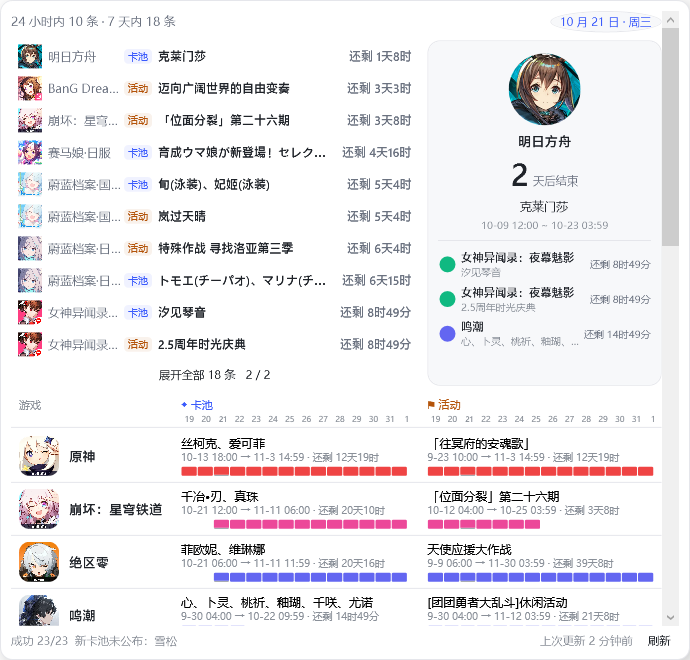
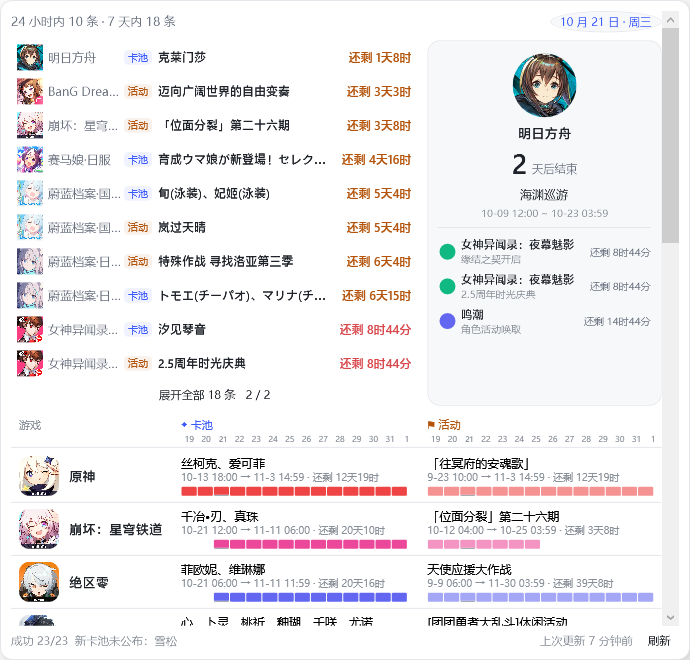
style: v0.1.16 视觉打磨与交互修复
- newPanel 焦点卡显示池/活动名，图标/间距收紧；活动条混浅色；倒计时按紧迫度着色
- 设置页自定义 CheckBox、ComboBox/TextBox 统一、颜色列；取色器以设置窗口为 owner
- 修复 newPanel 隐藏时循环定时器仍运行、设置窗口小屏溢出
- 更新设置页/newPanel 100/150 截图；版本 0.1.16

验证：dotnet build 0 警告 0 错误；npm test 34/34；npm run check 通过

diff --git a/src/GachaCalendar/Views/ScheduleView.xaml b/src/GachaCalendar/Views/ScheduleView.xaml
@@ -87,7 +87,7 @@
 												<ColumnDefinition Width="*" />
 												<ColumnDefinition Width="Auto" />
 											</Grid.ColumnDefinitions>
-											<Grid Width="24" Height="24" HorizontalAlignment="Center" VerticalAlignment="Center">
+											<Grid Width="26" Height="26" HorizontalAlignment="Center" VerticalAlignment="Center">
 												<Border CornerRadius="5" Background="{Binding GameColor}">
 													<Border.Style>
 														<Style TargetType="Border">
@@ -160,8 +160,21 @@
 													   VerticalAlignment="Center" Margin="3,0" TextTrimming="CharacterEllipsis"
 													   ToolTip="{Binding Tip}" />
 											<TextBlock Grid.Column="4" Text="{Binding WhenText}" FontSize="12" FontWeight="SemiBold"
-													   VerticalAlignment="Center" Margin="6,0,0,0"
-													   Foreground="{DynamicResource FgDim}" />
+													   VerticalAlignment="Center" Margin="6,0,0,0">
+												<TextBlock.Style>
+													<Style TargetType="TextBlock">
+														<Setter Property="Foreground" Value="{DynamicResource FgDim}" />
+														<Style.Triggers>
+															<DataTrigger Binding="{Binding Urgency}" Value="1">
+																<Setter Property="Foreground" Value="{DynamicResource Danger}" />
+															</DataTrigger>
+															<DataTrigger Binding="{Binding Urgency}" Value="2">
+																<Setter Property="Foreground" Value="{DynamicResource Warn}" />
+															</DataTrigger>
+														</Style.Triggers>
+													</Style>
+												</TextBlock.Style>
+											</TextBlock>
 										</Grid>
 									</Border>
 								</DataTemplate>
@@ -186,8 +199,8 @@
 					<Border Grid.Column="1" Background="{DynamicResource ChipBg}" BorderBrush="{DynamicResource PanelBorder}"
 							BorderThickness="1" CornerRadius="12" Padding="10" VerticalAlignment="Stretch">
 						<StackPanel>
-							<Grid Width="72" Height="72" HorizontalAlignment="Center" Margin="0,2,0,0">
-								<Border CornerRadius="36" Background="{Binding Focus.GameColor}">
+							<Grid Width="64" Height="64" HorizontalAlignment="Center" Margin="0,2,0,0">
+								<Border CornerRadius="32" Background="{Binding Focus.GameColor}">
 									<Border.Style>
 										<Style TargetType="Border">
 											<Setter Property="Visibility" Value="Visible" />
@@ -198,7 +211,7 @@
 											</Style.Triggers>
 										</Style>
 									</Border.Style>
-									<TextBlock Text="{Binding Focus.IconGlyph}" FontSize="24" Foreground="White"
+									<TextBlock Text="{Binding Focus.IconGlyph}" FontSize="22" Foreground="White"
 											   HorizontalAlignment="Center" VerticalAlignment="Center" />
 								</Border>
 								<Image Source="{Binding Focus.Icon}" Stretch="UniformToFill">
@@ -213,14 +226,14 @@
 										</Style>
 									</Image.Style>
 									<Image.Clip>
-										<EllipseGeometry Center="36,36" RadiusX="36" RadiusY="36" />
+										<EllipseGeometry Center="32,32" RadiusX="32" RadiusY="32" />
 									</Image.Clip>
 								</Image>
 							</Grid>
 							<TextBlock Text="{Binding FocusGameName}" FontSize="13" FontWeight="SemiBold" HorizontalAlignment="Center"
 									   Margin="0,7,0,0" TextTrimming="CharacterEllipsis" />
 							<StackPanel Orientation="Horizontal" HorizontalAlignment="Center" Margin="0,2,0,0">
-								<TextBlock Text="{Binding Focus.FocusNumber}" FontSize="32" FontWeight="SemiBold" />
+								<TextBlock Text="{Binding Focus.FocusNumber}" FontSize="28" FontWeight="SemiBold" />
 								<TextBlock Text="{Binding Focus.FocusUnit}" FontSize="11" Foreground="{DynamicResource FgDim}"
 										   VerticalAlignment="Bottom" Margin="4,0,0,5" />
 							</StackPanel>
@@ -243,7 +256,7 @@
 											</Grid>
 											<StackPanel Grid.Column="1" Margin="5,0,4,0">
 												<TextBlock Text="{Binding GameName}" FontSize="11" FontWeight="SemiBold" TextTrimming="CharacterEllipsis" />
-												<TextBlock Text="{Binding Show}" FontSize="10" Foreground="{DynamicResource FgFaint}" TextTrimming="CharacterEllipsis" />
+												<TextBlock Text="{Binding Title}" FontSize="10" Foreground="{DynamicResource FgFaint}" TextTrimming="CharacterEllipsis" />
 											</StackPanel>
 											<TextBlock Grid.Column="2" Text="{Binding WhenText}" FontSize="10" Foreground="{DynamicResource FgDim}"
 													   VerticalAlignment="Center" />

diff --git a/src/GachaCalendar/Views/SettingsWindow.xaml b/src/GachaCalendar/Views/SettingsWindow.xaml
@@ -54,6 +54,57 @@
 				</Setter.Value>
 			</Setter>
 		</Style>
+
+		<!-- 设置页控件统一到 DSH 的浅色卡片观感 -->
+		<Style TargetType="ComboBox">
+			<Setter Property="Height" Value="26" />
+			<Setter Property="Padding" Value="6,2" />
+			<Setter Property="FontSize" Value="12" />
+			<Setter Property="Background" Value="{DynamicResource PanelBg}" />
+			<Setter Property="Foreground" Value="{DynamicResource Fg}" />
+			<Setter Property="BorderBrush" Value="{DynamicResource PanelBorder}" />
+			<Setter Property="BorderThickness" Value="1" />
+			<Setter Property="VerticalContentAlignment" Value="Center" />
+		</Style>
+		<Style TargetType="TextBox">
+			<Setter Property="Height" Value="26" />
+			<Setter Property="Padding" Value="6,2" />
+			<Setter Property="FontSize" Value="12" />
+			<Setter Property="Background" Value="{DynamicResource PanelBg}" />
+			<Setter Property="Foreground" Value="{DynamicResource Fg}" />
+			<Setter Property="BorderBrush" Value="{DynamicResource PanelBorder}" />
+			<Setter Property="BorderThickness" Value="1" />
+			<Setter Property="VerticalContentAlignment" Value="Center" />
+		</Style>
+		<Style TargetType="CheckBox">
+			<Setter Property="Foreground" Value="{DynamicResource Fg}" />
+			<Setter Property="FontSize" Value="12" />
+			<Setter Property="Template">
+				<Setter.Value>
+					<ControlTemplate TargetType="CheckBox">
+						<StackPanel Orientation="Horizontal" Background="Transparent">
+							<Border x:Name="Box" Width="15" Height="15" CornerRadius="4"
+									Background="{DynamicResource PanelBg}" BorderBrush="{DynamicResource PanelBorder}" BorderThickness="1">
+								<Path x:Name="Check" Data="M2,7 L5,10 L12,3" Stroke="White" StrokeThickness="1.7"
+									  StrokeStartLineCap="Round" StrokeEndLineCap="Round" StrokeLineJoin="Round"
+									  Visibility="Collapsed" Margin="2" />
+							</Border>
+							<ContentPresenter Margin="7,0,0,0" VerticalAlignment="Center" RecognizesAccessKey="True" />
+						</StackPanel>
+						<ControlTemplate.Triggers>
+							<Trigger Property="IsMouseOver" Value="True">
+								<Setter TargetName="Box" Property="BorderBrush" Value="{DynamicResource Accent}" />
+							</Trigger>
+							<Trigger Property="IsChecked" Value="True">
+								<Setter TargetName="Box" Property="Background" Value="{DynamicResource Accent}" />
+								<Setter TargetName="Box" Property="BorderBrush" Value="{DynamicResource Accent}" />
+								<Setter TargetName="Check" Property="Visibility" Value="Visible" />
+							</Trigger>
+						</ControlTemplate.Triggers>
+					</ControlTemplate>
+				</Setter.Value>
+			</Setter>
+		</Style>
 	</Window.Resources>
 
 	<Grid Margin="20">

diff --git a/src/GachaCalendar/ViewModels/ScheduleViewModel.cs b/src/GachaCalendar/ViewModels/ScheduleViewModel.cs
@@ -8,6 +8,7 @@ using GachaCalendar.Models;
 using GachaCalendar.Services;
 using Brush = System.Windows.Media.Brush;
 using Brushes = System.Windows.Media.Brushes;
+using Color = System.Windows.Media.Color;
 
 namespace GachaCalendar.ViewModels;
 
@@ -33,6 +34,7 @@ public sealed class SchedulePanelVm : INotifyPropertyChanged
 	private readonly DispatcherTimer _cycleTimer;
 	private int _page;
 	private bool _hovered;
+	private bool _visible = true;
 
 	public SchedulePanelVm()
 	{
@@ -54,7 +56,7 @@ public sealed class SchedulePanelVm : INotifyPropertyChanged
 	public bool HasFailure => FailureText.Length > 0;
 	public ScheduleItemVm? Focus { get => _focus; private set => Set(ref _focus, value); }
 	public string FocusGameName => Focus?.GameName ?? "";
-	public string FocusTitle => Focus?.Show ?? "";
+	public string FocusTitle => Focus?.Title is { Length: > 0 } title ? title : (Focus?.Show ?? "");
 	public string FocusWhen => Focus?.FocusWhen ?? "";
 	public string FocusDates => Focus?.DatesText ?? "";
 	public string FocusTip => Focus?.Tip ?? "";
@@ -104,6 +106,12 @@ public sealed class SchedulePanelVm : INotifyPropertyChanged
 	public void SetHovered(bool hovered)
 	{
 		_hovered = hovered;
+	}
+
+	public void SetVisible(bool visible)
+	{
+		_visible = visible;
+		UpdateTimer();
 	}
 
 	private void NextPage()
@@ -179,7 +187,7 @@ public sealed class SchedulePanelVm : INotifyPropertyChanged
 
 	private void UpdateTimer()
 	{
-		if (CanExpand && !_expanded)
+		if (_visible && CanExpand && !_expanded)
 		{
 			if (!_cycleTimer.IsEnabled) _cycleTimer.Start();
 		}
@@ -247,6 +255,7 @@ public sealed class SchedulePanelVm : INotifyPropertyChanged
 			else if (_now > end) state = "ended";
 			else state = "live";
 		}
+		var gameColor = ColorFor(game, _snapshot?.Config.GameColors);
 		var item = new ScheduleItemVm(game)
 		{
 			IsGacha = isGacha,
@@ -259,7 +268,8 @@ public sealed class SchedulePanelVm : INotifyPropertyChanged
 			State = state,
 			Fail = isGacha ? rec.GachaFail : rec.EventFail,
 			Stale = isGacha ? rec.GachaStale : rec.EventStale,
-			GameColor = ColorFor(game, _snapshot?.Config.GameColors),
+			GameColor = gameColor,
+			BarColor = isGacha ? gameColor : Lighten(gameColor),
 			Tip = BuildTip(game, rec, isGacha),
 		};
 		item.BuildBars(_now);
@@ -307,7 +317,7 @@ public sealed class SchedulePanelVm : INotifyPropertyChanged
 		FocusOthers.Clear();
 		if (Focus != null)
 		{
-			foreach (var item in _urgentCache.Where(x => !ReferenceEquals(x, Focus)).Take(3))
+			foreach (var item in _urgentCache.Where(x => !ReferenceEquals(x, Focus) && x.Game.Id != Focus.Game.Id).Take(3))
 				FocusOthers.Add(item);
 		}
 		Raise(nameof(FocusGameName));
@@ -328,6 +338,18 @@ public sealed class SchedulePanelVm : INotifyPropertyChanged
 		var hash = 0;
 		foreach (var ch in game.Name) hash = (hash * 31 + ch) & 0x7fffffff;
 		return Palette[hash % Palette.Length];
+	}
+
+	/// <summary>活动条用更浅的同色，区分卡池/活动（对齐 DSH 的 42% 混白）。</summary>
+	private static Brush Lighten(Brush brush)
+	{
+		if (brush is not SolidColorBrush solid) return brush;
+		var c = solid.Color;
+		var mix = 0.42;
+		return new SolidColorBrush(Color.FromRgb(
+			(byte)(c.R + (255 - c.R) * mix),
+			(byte)(c.G + (255 - c.G) * mix),
+			(byte)(c.B + (255 - c.B) * mix)));
 	}
 
 	private static bool IsHex(string value) =>
@@ -368,6 +390,7 @@ public sealed class ScheduleItemVm : INotifyPropertyChanged
 	public SideFail? Fail { get; init; }
 	public bool Stale { get; init; }
 	public Brush GameColor { get; init; } = Brushes.SlateGray;
+	public Brush BarColor { get; init; } = Brushes.SlateGray;
 	public string Tip { get; init; } = "";
 	public ObservableCollection<BarCellVm> Bars { get; } = new();
 
@@ -435,7 +458,7 @@ public sealed class ScheduleItemVm : INotifyPropertyChanged
 				Filled = filled,
 				Today = day == today,
 				State = State,
-				Color = GameColor,
+				Color = BarColor,
 				Day = day.Day,
 			});
 		}

diff --git a/src/GachaCalendar/App.xaml.cs b/src/GachaCalendar/App.xaml.cs
@@ -110,6 +110,7 @@ public partial class App : System.Windows.Application
 				Directory.CreateDirectory(outDir);
 				if (_flyout != null) CaptureWindow(_flyout, outDir, "flyout");
 				if (_dock != null) CaptureWindow(_dock, outDir, "dock");
+				if (_settingsWindow is { IsVisible: true }) CaptureWindow(_settingsWindow, outDir, "settings");
 			}
 			catch (Exception ex)
 			{
@@ -326,6 +327,9 @@ public partial class App : System.Windows.Application
 			_settingsWindow = new SettingsWindow();
 			_settingsWindow.Closed += (_, _) => _settingsWindow = null;
 		}
+		var area = SystemParameters.WorkArea;
+		_settingsWindow.Width = Math.Min(780, Math.Max(720, area.Width - 60));
+		_settingsWindow.Height = Math.Min(780, Math.Max(600, area.Height - 60));
 		_settingsWindow.LoadFromSettings();
 		_settingsWindow.Show();
 		_settingsWindow.Activate();

diff --git a/src/GachaCalendar/Views/SettingsWindow.xaml.cs b/src/GachaCalendar/Views/SettingsWindow.xaml.cs
@@ -691,7 +691,8 @@ public partial class SettingsWindow : Window
 			FullOpen = true,
 			Color = System.Drawing.Color.FromArgb(color.A, color.R, color.G, color.B),
 		};
-		if (dialog.ShowDialog() != System.Windows.Forms.DialogResult.OK) return;
+		var owner = new NativeWindow(new System.Windows.Interop.WindowInteropHelper(this).Handle);
+		if (dialog.ShowDialog(owner) != System.Windows.Forms.DialogResult.OK) return;
 		var c = dialog.Color;
 		var hex = $"#{c.R:X2}{c.G:X2}{c.B:X2}";
 		await RunWriteAsync(async () =>
@@ -755,5 +756,11 @@ public partial class SettingsWindow : Window
 			return ch.ToString();
 		}
 		return "?";
+	}
+
+	private sealed class NativeWindow : System.Windows.Forms.IWin32Window
+	{
+		public NativeWindow(IntPtr handle) => Handle = handle;
+		public IntPtr Handle { get; }
 	}
 }

diff --git a/src/GachaCalendar/Views/FlyoutWindow.xaml.cs b/src/GachaCalendar/Views/FlyoutWindow.xaml.cs
@@ -58,6 +58,7 @@ public partial class FlyoutWindow : Window
 		var newPanel = _vm?.IsNewPanel == true;
 		TableScroll.Visibility = newPanel ? Visibility.Collapsed : Visibility.Visible;
 		SchedulePanel.Visibility = newPanel ? Visibility.Visible : Visibility.Collapsed;
+		_vm?.Schedule.SetVisible(newPanel);
 	}
 
 	private void UpdateRefreshSpin()

diff --git a/docs/04-路线图.md b/docs/04-路线图.md
@@ -177,7 +177,16 @@ Fluent/DSH 风格外观已列入 [BACKLOG.md](../BACKLOG.md)。
 - [ ] 同格多档期探头展开
 - [ ] 自包含运行时发布
 
-## v0.1.16 · 任务栏体验打磨
+## v0.1.16 · 视觉与交互打磨（2026-10-21）
+
+- [x] newPanel 焦点卡标题改为池/活动名；图标/间距收紧；事件条混浅色
+- [x] 近期倒计时按紧迫度着色；同游戏/重复项去重
+- [x] 设置页圆角 CheckBox、ComboBox/TextBox 统一；颜色列
+- [x] 修复循环定时器在表格视图仍运行、取色器 owner、设置窗口小屏溢出
+- [x] 更新 100%/150% 设置页/newPanel 截图
+- [ ] 同格多档期探头展开
+
+## v0.1.17 · 任务栏体验打磨
 
 - [ ] 多显示器：主屏 / 每屏一份（设置项）
 - [ ] 任务栏自动隐藏时跟随（贴屏幕边缘而非消失）
@@ -187,7 +196,7 @@ Fluent/DSH 风格外观已列入 [BACKLOG.md](../BACKLOG.md)。
 - [ ] 点击外部关闭面板、Esc、快捷键（可选 Win+Alt+G）
 - [ ] 电源/锁屏/睡眠恢复后的任务栏重定位
 
-## v0.1.17 · 分发工程化
+## v0.1.18 · 分发工程化
 
 - [ ] `publish` 脚本：自包含 single-file zip + 框架依赖 zip
 - [ ] 安装包（Inno Setup 或 MSIX）：开始菜单、卸载清理自启项
@@ -196,7 +205,7 @@ Fluent/DSH 风格外观已列入 [BACKLOG.md](../BACKLOG.md)。
 - [ ] 性能预算：空闲内存 ≤ 120MB、CPU ≤ 0.1%、启动 ≤ 2s
 - [ ] 首次运行引导：数据从哪来、如何刷新、如何关掉原生小组件避免重叠
 
-## v0.1.18 · 商店与打磨
+## v0.1.19 · 商店与打磨
 
 - [ ] 代码签名（SmartScreen）
 - [ ] Microsoft Store / MSIX 上架评估

diff --git a/docs/11-DSH面板复刻验收.md b/docs/11-DSH面板复刻验收.md
@@ -28,8 +28,8 @@
 | 设置页实验开关（默认关） | `NewPanelCheck` → `updateConfig({newPanel})` + 快照透传 | 代码；开关切换后 `rebuildSnapshot` |
 | 日期胶囊 + 24小时/7天总览 | `SchedulePanelVm.GlanceText` / `DatePill` | 代码 |
 | 近期紧迫列表（前 10 + 展开分页） | `Urgent` + `ToggleExpand`；>10 条每 4 秒循环、悬停暂停 | `flyout-newpanel-100.png` |
-| 悬停详情卡 | `Focus` + `FocusOthers`（大图标/剩余天数/日期/其他项） | 同上 |
-| 14 天时间轴日程表 | 158px 游戏列 + 卡池/活动两栏 + 14 格条形 | 同上 |
+| 悬停详情卡 | `Focus` + `FocusOthers`（显示池/活动名、大图标、剩余天数、日期、其他项） | 同上 |
+| 14 天时间轴日程表 | 158px 游戏列 + 卡池/活动两栏 + 14 格条形；活动条混浅色 | 同上 |
 | 刷新失败横条 + 重试 | `FailureText` / `FailureTip` + 重试按钮 | 代码 |
 | 底栏状态/上次更新/刷新 | `ScrapeText` / `UpdatedAgo` / 刷新按钮 | 同上 |
 | 同格多档期探头展开 | 未实现 | 下一轮 |
@@ -76,7 +76,7 @@ npm run check
 ```
 
 - CI：`build-windows` / `identity` / `engine` / `tools` 全绿。
-- 截图：`docs/images/flyout.png`（浅色）、`flyout-dark.png`（深色）、`settings.png`。
+- `docs/images/flyout.png`、`flyout-dark.png`、`settings.png`（100% 渲染）/`settings-150.png`。
 
 ## 7. 未纳入 / 后续
 

diff --git a/CHANGELOG.md b/CHANGELOG.md
@@ -1,5 +1,14 @@
 # CHANGELOG
 
+## v0.1.16 · 2026-10-21
+
+- 视觉打磨：newPanel 焦点卡改为显示池/活动名，图标缩小、详情卡不再裁切第三项；
+  活动条改用 42% 混浅色，近期倒计时按紧迫度着色，空/同游戏项去重
+- 设置页控件统一：自定义圆角 CheckBox、ComboBox/TextBox 尺寸与配色、颜色列
+- 修复：newPanel 切回表格视图后循环定时器仍运行；取色器改为以设置窗口为 owner；
+  设置窗口按工作区限制 780×780，避免小屏溢出
+- 更新设置页/newPanel 100%/150% 截图；版本 0.1.16
+
 ## v0.1.15 · 2026-10-21
 
 - newPanel：近期列表超过 10 条时每 4 秒循环翻页（悬停暂停），按钮显示 `当前页 / 总页数`；

diff --git a/README.md b/README.md
@@ -50,6 +50,7 @@
 | 深浅色 token / 视觉验收清单 | ✅ v0.1.10（[验收清单](docs/11-DSH面板复刻验收.md)） |
 | 实验性 newPanel（日程视图） | 🚧 v0.1.12 基础版（设置页可开启） |
 | 颜色取色器 / DPI 截图 / 内置 Node 打包 | ✅ v0.1.13–0.1.14（`tools/publish.ps1`） |
+| 视觉打磨 / 新控件 / 小屏设置窗口 | ✅ v0.1.16 |
 | Fluent / DSH 交互细节与视觉回归 | 📋 待办（[#1](https://github.com/EastMG/gacha-calendar/issues/1) / [BACKLOG.md](BACKLOG.md)） |
 | 多显示器、轮播、安装包 | 🚧 v0.1.10+（见[路线图](docs/04-路线图.md)） |
 
